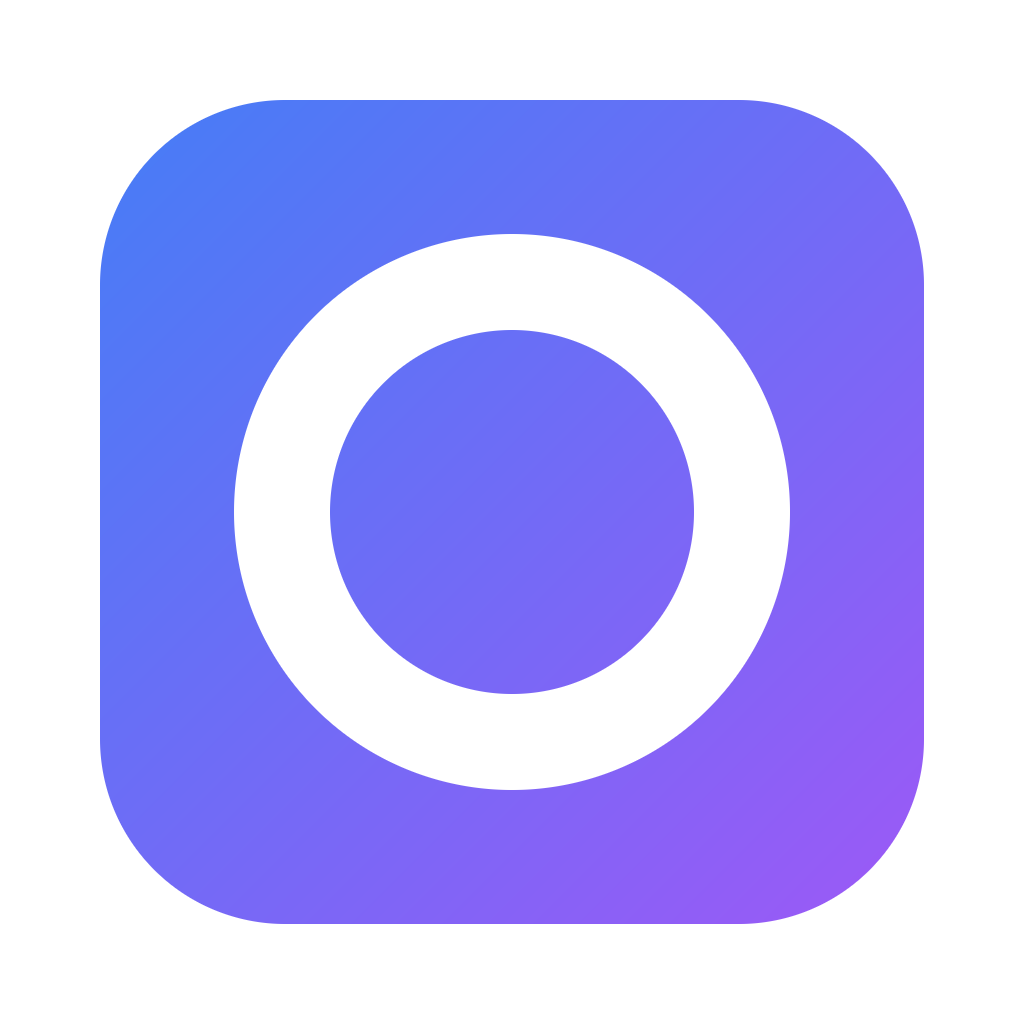
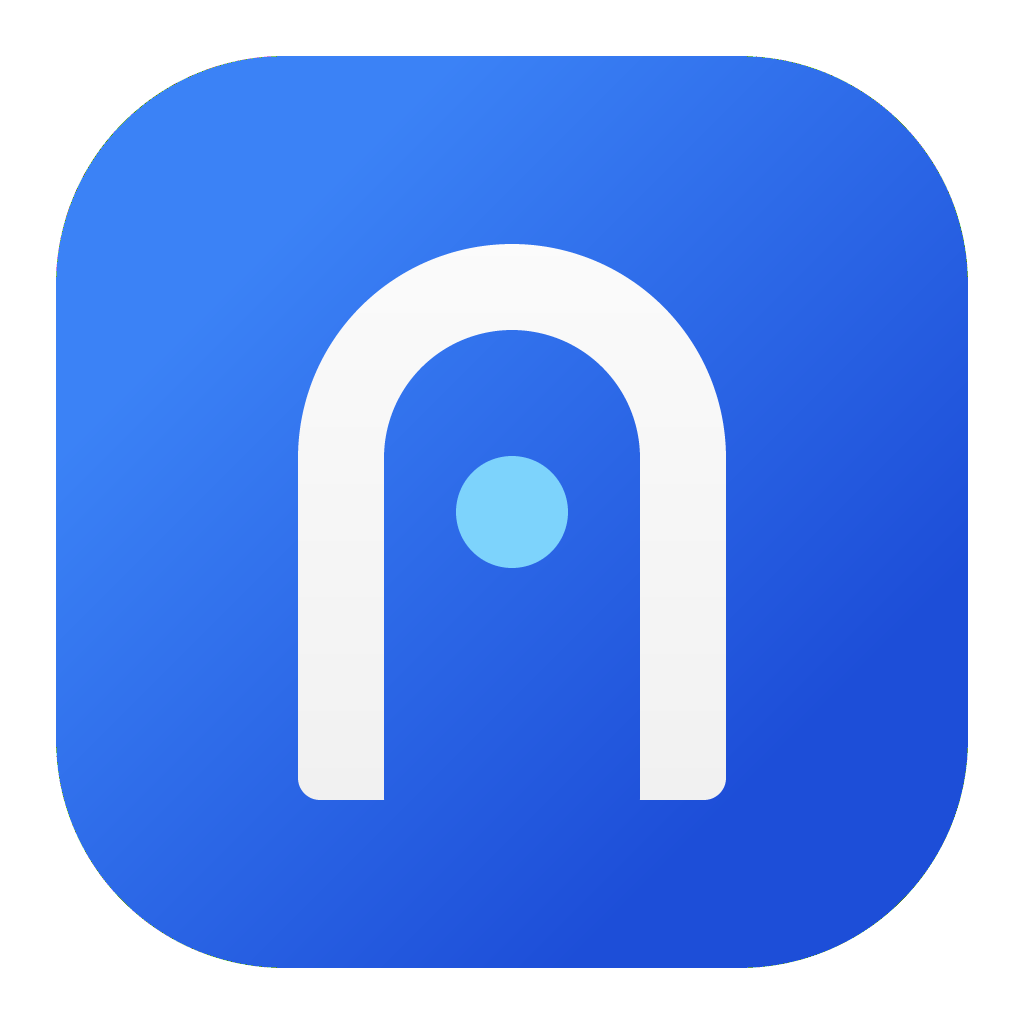
新增应用图标与统一的托盘标记
- tools/icongen：用 Go 生成 1024 图标（蓝色渐变圆角方块 + 隧道拱洞 + 光点），无外部依赖
- 托盘图标改为同一拱洞标记：运行中实心，停止时空心
- README 补充 theme.go 与图标生成说明

diff --git a/tools/icongen/main.go b/tools/icongen/main.go
@@ -1,0 +1,184 @@
+//go:build ignore
+
+// icongen 生成应用图标 resources/icon.png（1024×1024）。
+//
+// 运行：go run tools/icongen/main.go
+//
+// 图形：蓝色渐变圆角方块 + 白色隧道拱洞 + 洞口的光点。
+// "拱洞"是 gost（GO Simple Tunnel）最直接的隐喻：数据从这里穿过。
+package main
+
+import (
+	"image"
+	"image/color"
+	"image/png"
+	"math"
+	"os"
+)
+
+// 超采样倍数：4×4 子采样，边缘足够平滑。
+const (
+	size = 1024
+	ss   = 4
+)
+
+func main() {
+	n := size * ss
+	// 覆盖率掩码
+	bg := make([]bool, n*n)   // 圆角方块底
+	arch := make([]bool, n*n) // 拱洞外形
+	hole := make([]bool, n*n) // 拱洞内孔（挖空）
+	dot := make([]bool, n*n)  // 洞口光点
+
+	// 几何（按 1024 画布定义，再乘以 ss）
+	const (
+		margin = 56.0  // 方块外边距
+		radius = 228.0 // 方块圆角
+	)
+	inRoundedRect := func(x, y, x0, y0, x1, y1, r float64) bool {
+		if x < x0 || x > x1 || y < y0 || y > y1 {
+			return false
+		}
+		cx := clamp(x, x0+r, x1-r)
+		cy := clamp(y, y0+r, y1-r)
+		dx, dy := x-cx, y-cy
+		return dx*dx+dy*dy <= r*r
+	}
+	// 拱洞：上半为半圆，下半为直边（隧道断面）
+	archShape := func(x, y, cx, bottom, halfW, top float64) bool {
+		if y < top || y > bottom {
+			return false
+		}
+		if y >= top+halfW { // 直边段
+			return math.Abs(x-cx) <= halfW
+		}
+		dy := y - (top + halfW)
+		return (x-cx)*(x-cx)+dy*dy <= halfW*halfW
+	}
+	// 内孔在底端收圆角，视觉上像石拱而非字母 n
+	archRounded := func(x, y, cx, bottom, halfW, top, r float64) bool {
+		if !archShape(x, y, cx, bottom, halfW, top) {
+			return false
+		}
+		if y > bottom-r && math.Abs(x-cx) > halfW-r {
+			cxx := cen(x, cx, halfW, r, y, bottom)
+			dx, dy := x-cxx, y-(bottom-r)
+			return dx*dx+dy*dy <= r*r
+		}
+		return true
+	}
+
+	const (
+		cx     = 512.0
+		bottom = 800.0
+		top    = 244.0
+		halfW  = 214.0
+		wall   = 86.0 // 拱壁厚度
+	)
+
+	for py := 0; py < n; py++ {
+		for px := 0; px < n; px++ {
+			x := (float64(px) + 0.5) / ss
+			y := (float64(py) + 0.5) / ss
+			i := py*n + px
+			bg[i] = inRoundedRect(x, y, margin, margin, size-margin, size-margin, radius)
+			arch[i] = archRounded(x, y, cx, bottom, halfW, top, 22)
+			hole[i] = archRounded(x, y, cx, bottom+10, halfW-wall, top+wall, 12)
+			// 洞口光点：居中偏上，像刚穿出来的数据
+			dx, dy := x-cx, y-512
+			dot[i] = dx*dx+dy*dy <= 56*56
+		}
+	}
+
+	out := image.NewRGBA(image.Rect(0, 0, size, size))
+	for py := 0; py < size; py++ {
+		for px := 0; px < size; px++ {
+			var r, g, b, a float64
+			for sy := 0; sy < ss; sy++ {
+				for sx := 0; sx < ss; sx++ {
+					i := (py*ss+sy)*n + px*ss + sx
+					x := (float64(px*ss+sx) + 0.5) / ss
+					y := (float64(py*ss+sy) + 0.5) / ss
+					c, ca := sample(i, x, y, bg, arch, hole, dot)
+					r += float64(c.R) * ca
+					g += float64(c.G) * ca
+					b += float64(c.B) * ca
+					a += ca
+				}
+			}
+			w := float64(ss * ss)
+			r, g, b, a = r/w, g/w, b/w, a/w
+			if a > 0 { // 未预乘
+				r, g, b = r/a, g/a, b/a
+			}
+			out.SetRGBA(px, py, color.RGBA{
+				R: to8(r), G: to8(g), B: to8(b), A: to8(a * 255),
+			})
+		}
+	}
+
+	f, err := os.Create("resources/icon.png")
+	if err != nil {
+		panic(err)
+	}
+	defer f.Close()
+	if err := png.Encode(f, out); err != nil {
+		panic(err)
+	}
+}
+
+// sample 返回该子采样点的颜色与覆盖度。
+func sample(i int, x, y float64, bg, arch, hole, dot []bool) (color.RGBA, float64) {
+	if arch[i] && !hole[i] {
+		// 拱壁：白色，顶部提亮形成体积感
+		t := clamp(y/1024.0, 0, 1)
+		v := 255.0 - 18*t
+		return color.RGBA{to8(v), to8(v), to8(v), 255}, 1
+	}
+	if dot[i] {
+		return color.RGBA{125, 211, 252, 255}, 1 // 浅青：数据流（叠加在洞里）
+	}
+	if bg[i] {
+		// 对角渐变：左上亮蓝 → 右下深蓝
+		t := clamp((x+y-2*256)/1024, 0, 1)
+		return mix(color.RGBA{59, 130, 246, 255}, color.RGBA{29, 78, 216, 255}, t), 1
+	}
+	return color.RGBA{}, 0
+}
+
+func mix(a, b color.RGBA, t float64) color.RGBA {
+	return color.RGBA{
+		to8(float64(a.R) + (float64(b.R)-float64(a.R))*t),
+		to8(float64(a.G) + (float64(b.G)-float64(a.G))*t),
+		to8(float64(a.B) + (float64(b.B)-float64(a.B))*t),
+		255,
+	}
+}
+
+// cen 求底端圆角段的圆心 x。
+func cen(x, cx, halfW, r, y, bottom float64) float64 {
+	if x < cx {
+		return cx - halfW + r
+	}
+	return cx + halfW - r
+}
+
+func clamp(v, lo, hi float64) float64 {
+	if v < lo {
+		return lo
+	}
+	if v > hi {
+		return hi
+	}
+	return v
+}
+
+func to8(v float64) uint8 {
+	if v <= 0 {
+		return 0
+	}
+	if v >= 255 {
+		return 255
+	}
+	return uint8(v + 0.5)
+}

diff --git a/tray.go b/tray.go
@@ -4,14 +4,14 @@ import (
 	"bytes"
 	"image"
 	"image/color"
-	"image/draw"
 	"image/png"
+	"math"
 
 	"github.com/egoist/mygo"
 	"mygost/internal/proc"
 )
 
-// setupTray 创建托盘图标（运行中实心圆点，停止时空心圆点）。
+// setupTray 创建托盘图标（与 app 图标同一标记：隧道拱洞）。
 func (a *app) setupTray() {
 	tray, err := mygo.NewTray(mygo.TrayOptions{
 		ID:             "main",
@@ -33,11 +33,12 @@ func (a *app) refreshTray() {
 	}
 	state, _, _ := a.pm.State()
 	running := state == proc.Running
+	// 运行中实心拱洞，停止时空心
 	a.tray.SetIcon(trayPNG(running), true)
 
-	startLabel := "启动"
+	action := "连接"
 	if running {
-		startLabel = "停止"
+		action = "断开"
 	}
 	items := []*mygo.MenuItem{
 		{Label: "打开 mygost", Click: func(*mygo.MenuItem, *mygo.Window) {
@@ -46,7 +47,8 @@ func (a *app) refreshTray() {
 				a.win.Focus()
 			}
 		}},
-		{Label: startLabel, Click: func(*mygo.MenuItem, *mygo.Window) {
+		mygo.Separator(),
+		{Label: action, Click: func(*mygo.MenuItem, *mygo.Window) {
 			if running {
 				go a.pm.Stop()
 			} else {
@@ -59,22 +61,62 @@ func (a *app) refreshTray() {
 	a.tray.SetMenu(mygo.NewMenu(items))
 }
 
-// trayPNG 绘制 32x32 托盘图标：黑色圆点（模板图标，系统自动着色）。
+// trayPNG 绘制 32×32 单色托盘图标：隧道拱洞，运行中实心并带光点。
 func trayPNG(running bool) []byte {
-	const size = 32
-	img := image.NewRGBA(image.Rect(0, 0, size, size))
-	draw.Draw(img, img.Bounds(), image.Transparent, image.Point{}, draw.Src)
+	const (
+		out = 32
+		ss  = 4
+		n   = out * ss
+	)
+	// 几何（按 32 点坐标系定义）
+	const (
+		cx     = 16.0
+		top    = 4.0
+		bottom = 27.0
+		halfW  = 9.5
+		wall   = 3.6
+	)
+	// 拱洞：上为半圆，下为直边
+	inArch := func(x, y, w float64) bool {
+		if y < top || y > bottom {
+			return false
+		}
+		if y >= top+w {
+			return math.Abs(x-cx) <= w
+		}
+		dy := y - (top + w)
+		return (x-cx)*(x-cx)+dy*dy <= w*w
+	}
+	// 中心光点
+	inDot := func(x, y float64) bool {
+		dx, dy := x-cx, y-19.5
+		return dx*dx+dy*dy <= 2.6*2.6
+	}
+
+	img := image.NewRGBA(image.Rect(0, 0, out, out))
 	black := color.RGBA{0, 0, 0, 255}
-	cx, cy := float64(size)/2, float64(size)/2
-	for y := 0; y < size; y++ {
-		for x := 0; x < size; x++ {
-			d := (float64(x)-cx+0.5)*(float64(x)-cx+0.5) + (float64(y)-cy+0.5)*(float64(y)-cy+0.5)
-			switch {
-			case running && d <= 100: // r=10 实心
-				img.Set(x, y, black)
-			case !running && d <= 100 && d >= 56: // 空心环
-				img.Set(x, y, black)
+	for py := 0; py < out; py++ {
+		for px := 0; px < out; px++ {
+			covered := 0
+			for sy := 0; sy < ss; sy++ {
+				for sx := 0; sx < ss; sx++ {
+					x := (float64(px*ss+sx) + 0.5) / ss
+					y := (float64(py*ss+sy) + 0.5) / ss
+					hit := inArch(x, y, halfW) && !inArch(x, y, halfW-wall) // 拱壁
+					if running {
+						hit = inArch(x, y, halfW) || inDot(x, y) // 实心 + 光点
+					}
+					if hit {
+						covered++
+					}
+				}
 			}
+			if covered == 0 {
+				continue
+			}
+			c := black
+			c.A = uint8(255 * covered / (ss * ss))
+			img.SetRGBA(px, py, c)
 		}
 	}
 	var buf bytes.Buffer

diff --git a/README.md b/README.md
@@ -52,7 +52,9 @@ view_main.go          主界面：连接大按钮、配置列表、互斥启停
 view_profiles.go      新建/编辑表单（代理 / 端口转发 / YAML）
 view_logs.go          日志
 view_settings.go      设置
-tray.go               托盘图标与菜单
+tray.go               托盘图标与菜单（与 app 图标同一标记）
+theme.go              设计 token（间距/圆角/字号）、主题派生、语义柔色
+tools/icongen/        图标生成器：go run tools/icongen/main.go
 internal/settings/    设置持久化（JSON）
 internal/profiles/    配置档存储 + gost.yml 生成
 internal/gostbin/     二进制定位、下载、（可选）嵌入
